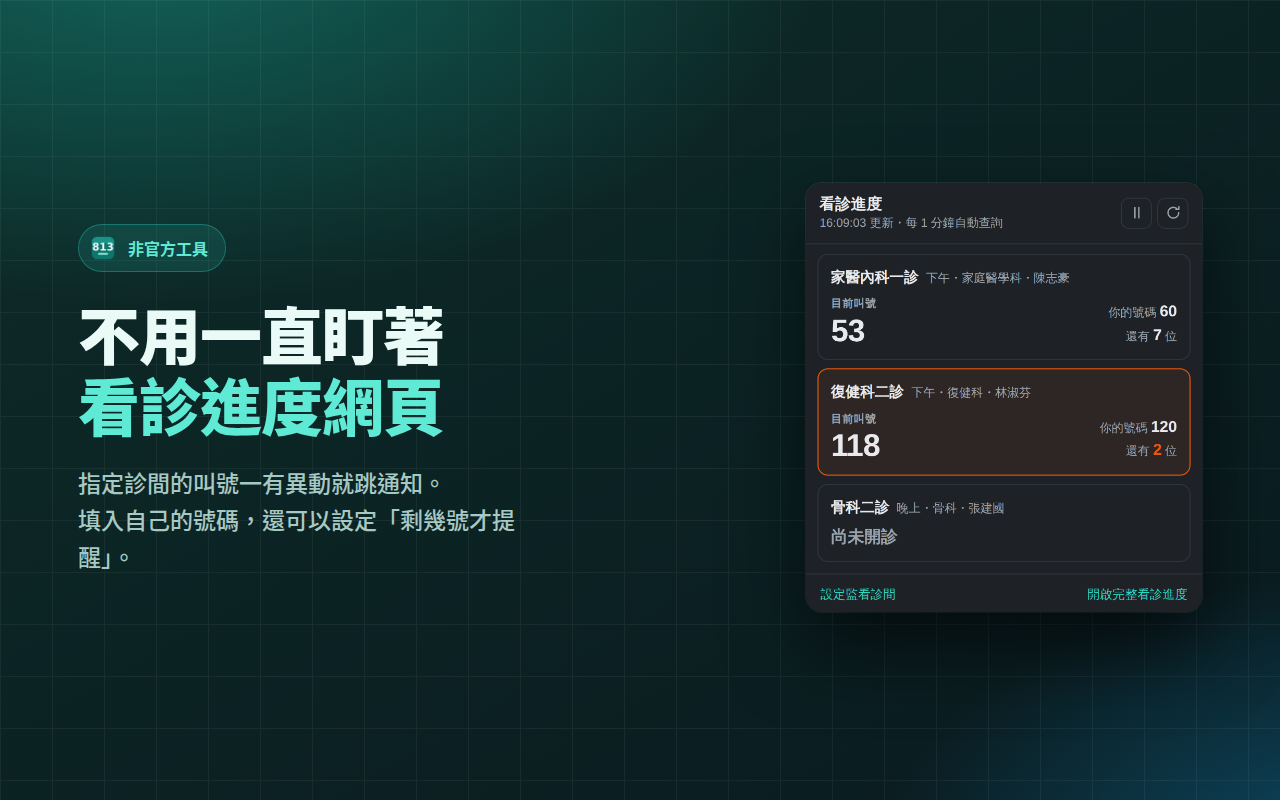
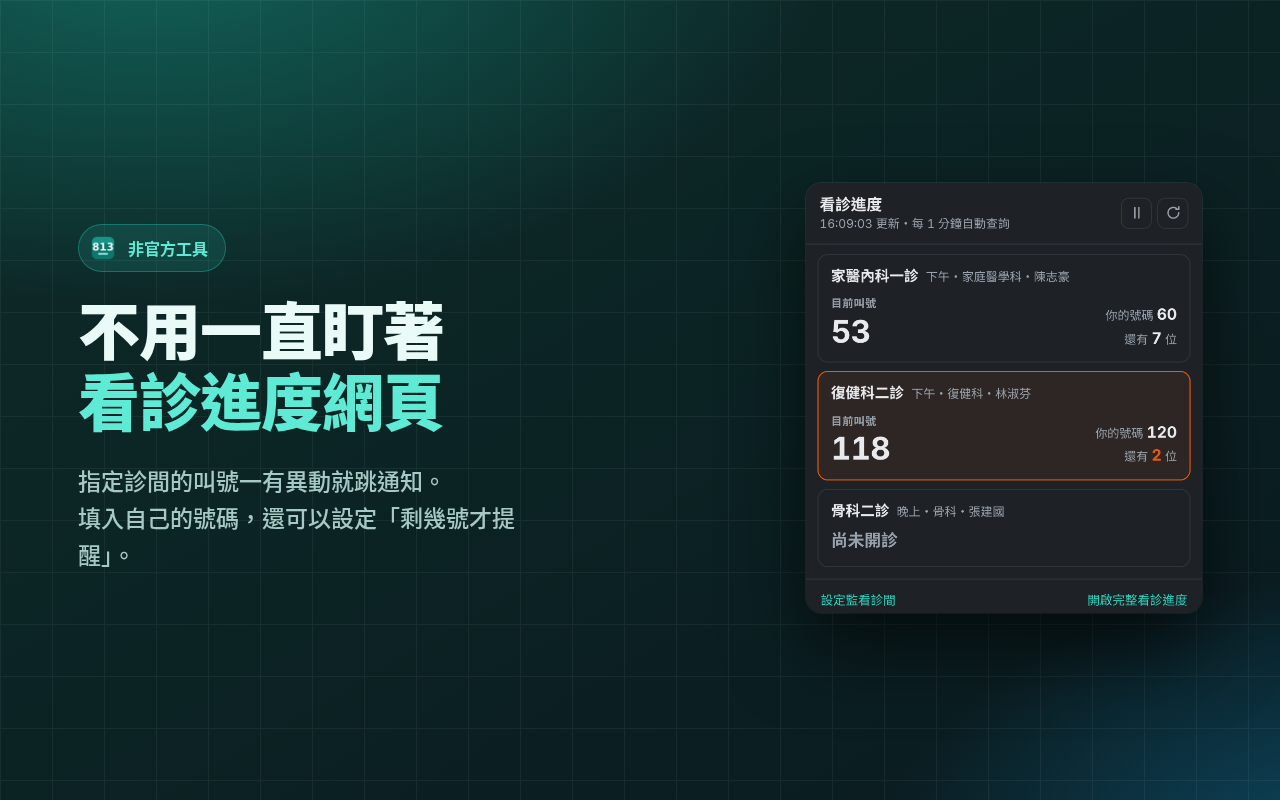
v1.0.8：字型堆疊補上 Inter 與 Noto Sans CJK TC，重新產生截圖
原本的堆疊在非 macOS 環境會整個 fallback 到 DejaVu Sans，
數字與拉丁字看起來笨重，中文也可能撿到簡體或日文字形。
補上 Inter（拉丁）與 Noto Sans CJK TC（正體中文）後，
Linux／Windows 下的顯示與 macOS 接近許多。

說明文件與上架素材的截圖一併用正確字型重新產生。

Claude-Session: https://claude.ai/code/session_01811q4F9Pc9bXYmuBo5XWmq

diff --git a/pwa/public/app.css b/pwa/public/app.css
@@ -34,8 +34,8 @@ body {
   margin: 0;
   background: var(--bg);
   color: var(--text);
-  font-family: -apple-system, BlinkMacSystemFont, "Noto Sans TC", "PingFang TC",
-    "Microsoft JhengHei", sans-serif;
+  font-family: -apple-system, BlinkMacSystemFont, "Segoe UI", Inter,
+    "PingFang TC", "Noto Sans TC", "Noto Sans CJK TC", "Microsoft JhengHei", sans-serif;
   font-size: 16px;
   line-height: 1.6;
   padding-bottom: calc(28px + var(--safe-bot));

diff --git a/shared.css b/shared.css
@@ -31,8 +31,8 @@ body {
   margin: 0;
   background: var(--bg);
   color: var(--text);
-  font-family: -apple-system, BlinkMacSystemFont, "Segoe UI", "Noto Sans TC",
-    "PingFang TC", "Microsoft JhengHei", sans-serif;
+  font-family: -apple-system, BlinkMacSystemFont, "Segoe UI", Inter,
+    "PingFang TC", "Noto Sans TC", "Noto Sans CJK TC", "Microsoft JhengHei", sans-serif;
   font-size: 14px;
   line-height: 1.6;
 }

diff --git a/README.md b/README.md
@@ -264,6 +264,7 @@ node test/daily-reset.e2e.mjs   # 需要 Playwright + Chromium
 
 | 版本 | 內容 |
 |---|---|
+| 1.0.8 | 字型堆疊補上 Inter 與 Noto Sans CJK TC，非 macOS 環境不再 fallback 到 DejaVu Sans；說明文件與上架素材的截圖重新產生 |
 | 1.0.7 | 真正修好過期紀錄清不掉的問題：日期檢查移出查詢的去重範圍（原本一次卡住的查詢會讓清除永遠不執行）、改以資料自己的日期為準、加上一次性資料修復與 30 秒查詢看門狗 |
 | 1.0.6 | 嘗試修正升級後清不掉舊紀錄的問題（僅部分有效） |
 | 1.0.5 | 新增每天凌晨 00:00 自動清除前一天的診間與號碼（可關閉），並新增「清除目前的監看清單」按鈕 |
